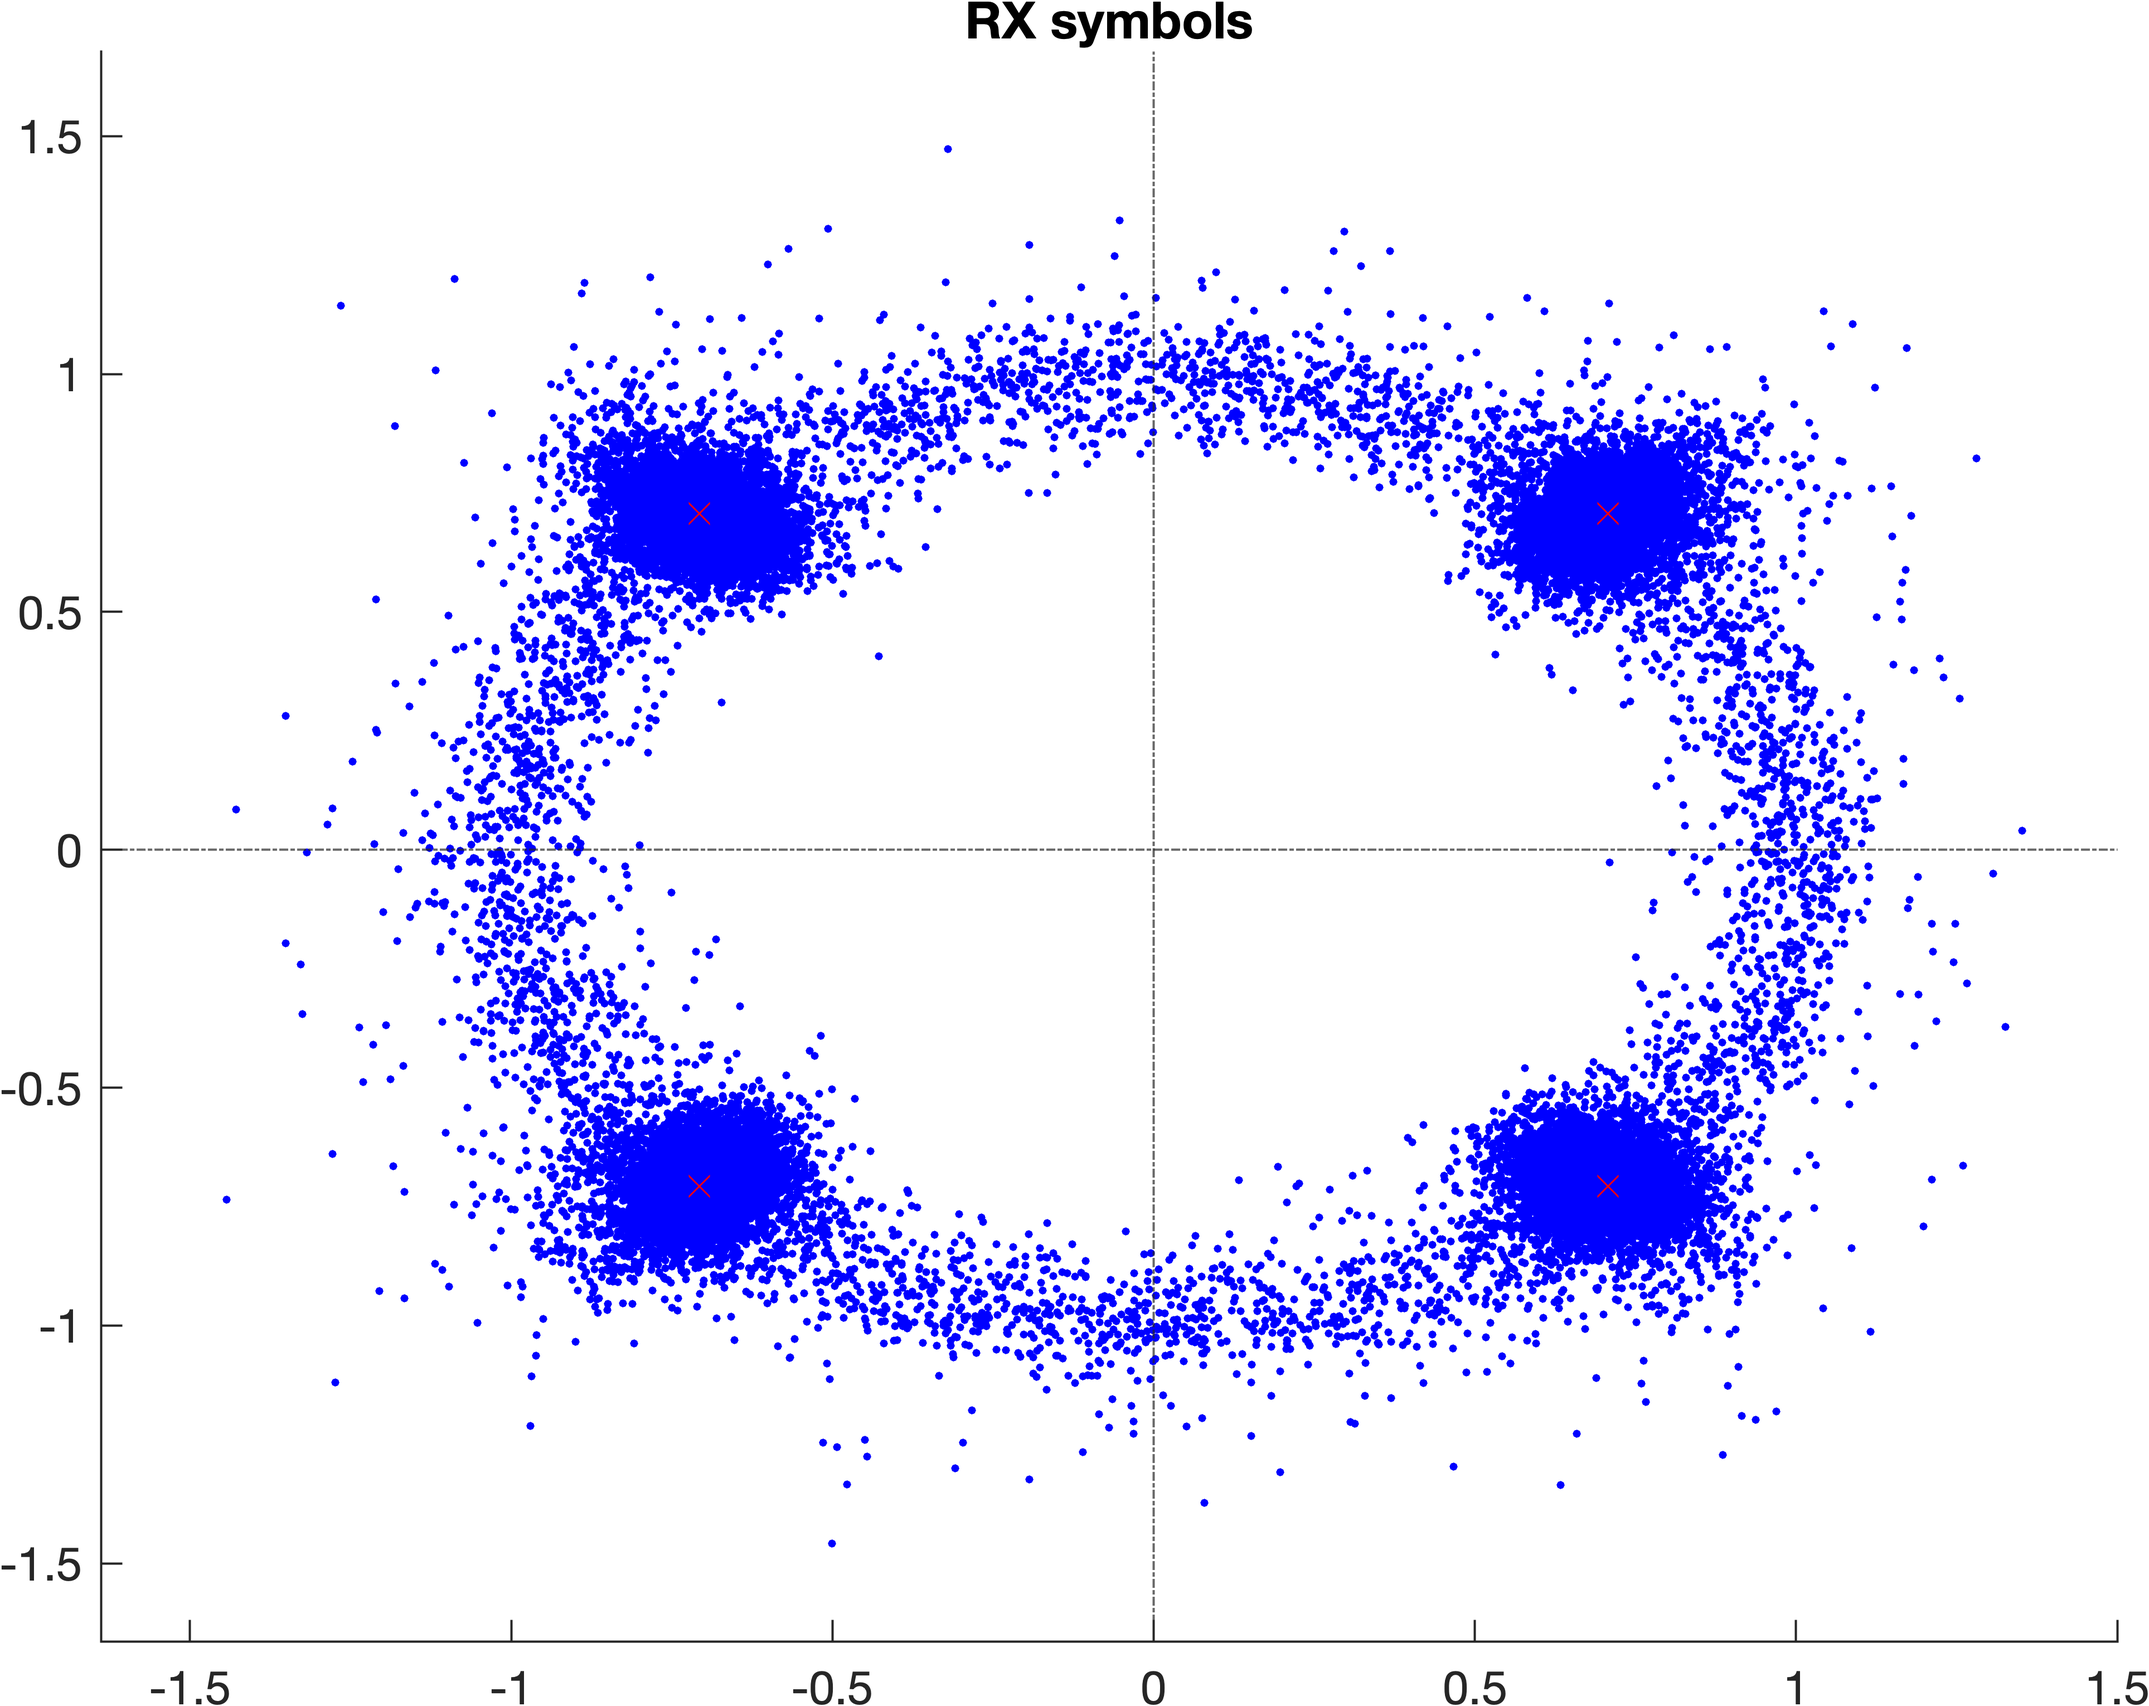
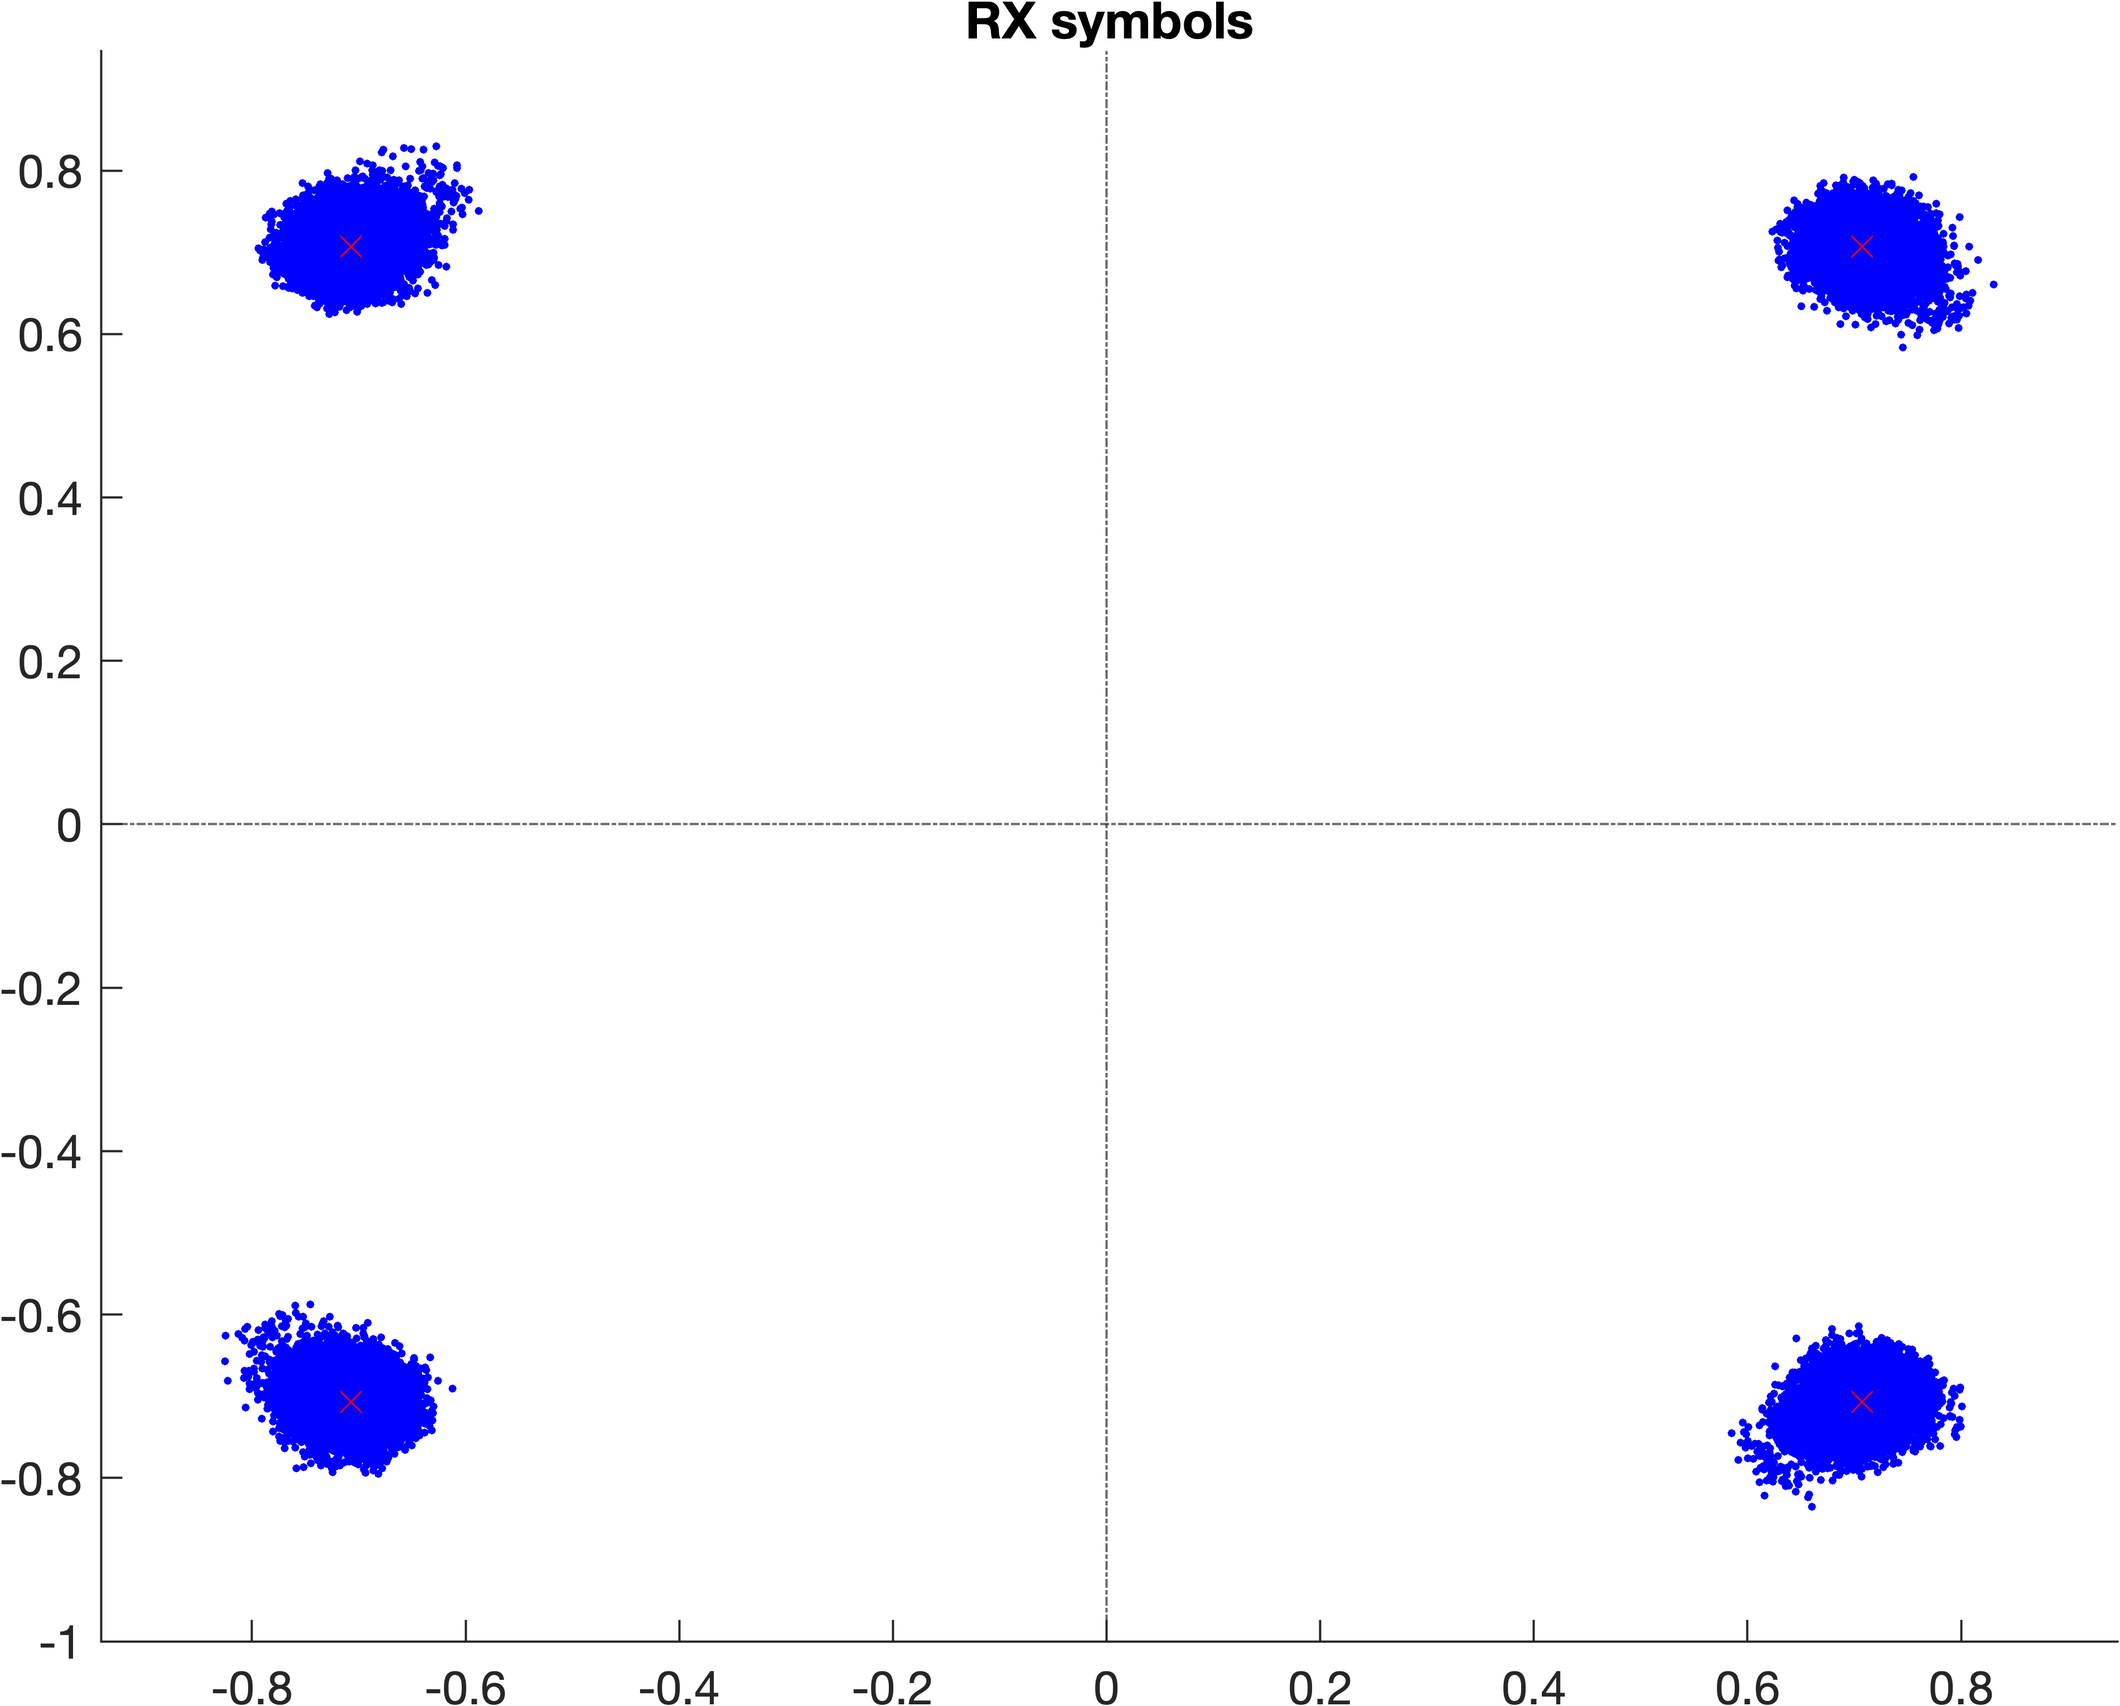
Correcter Viterbi-Viterbi

diff --git a/project_matlab/rx.m b/project_matlab/rx.m
@@ -1,4 +1,4 @@
-function [rxbits conf] = rx(rxsignal,conf,k)
+function [rxbits conf] = rx(rxsignal,conf)
 % Digital Receiver
 %
 %   [txsignal conf] = tx(txbits,conf,k) implements a complete causal
@@ -74,7 +74,7 @@ plot(conf.qpsk, 'rx');
 axis padded
 title("RX symbols");
 hold off;
-exportgraphics(gcf,'plots/3_3_RX_constellation (with phase tracking)_128symbols_2.png','Resolution',600)
+exportgraphics(gcf,'plots/3_3_RX_constellation (with phase tracking)_128_symbols.png','Resolution',600)
 
 
 
@@ -128,11 +128,12 @@ function dataCorrected = phaseCorrection(fftSignal, conf)
 
 
             [~, ind] = min(abs(delta_theta_viterbi.' - previous_delta_theta.'));
-            actual_delta_theta_viterbi_ = delta_theta_viterbi(:,ind(:));
-            actual_delta_theta_viterbi = actual_delta_theta_viterbi_(:, 1);
 
-           
-            new_delta_theta = 0.99 * previous_delta_theta + 0.01*actual_delta_theta_viterbi;
+            actual_delta_theta_viterbi_matrix = delta_theta_viterbi(:, ind.');
+            actual_delta_theta_viterbi = extract_diagonal(actual_delta_theta_viterbi_matrix);
+
+
+            new_delta_theta = 0.5 * previous_delta_theta + 0.5*actual_delta_theta_viterbi;
             new_delta_theta = mod(new_delta_theta, 2*pi);
 
         else

diff --git a/project_matlab/main.m b/project_matlab/main.m
@@ -36,8 +36,8 @@ conf.f_carrier            = 4000;
 conf.N                    = 256; % number of subcarriers
 conf.cyclic_prefix_len    = 32;%conf.N / 2;
 conf.preamble_len         = 200;
-conf.SNR_db               = 200;
-conf.sigmaDeltaTheta      = 0.0;
+conf.SNR_db               = 20;
+conf.sigmaDeltaTheta      = 0.05;
     
 
 conf = init_conf(conf, txbits);
@@ -145,7 +145,7 @@ disp(newline + "---> BER = " + ber);
 figure();
 tiledlayout(2,1);
 nexttile;
-moving_average_error = movmean(rxbits ~= txbits, 2^5);
+moving_average_error = movmean(rxbits ~= txbits, 2^1);
 plot(moving_average_error, '.');
 title("Moving Average Bit Error");
 xlabel("Time");
@@ -164,7 +164,7 @@ yline(pi/4, '-.');
 yline(0, '-.');
 
 
-exportgraphics(gcf,'plots/3_3_Bit and Phase error over time (with phase tracking)_128symbols_2.png','Resolution',600)
+exportgraphics(gcf,'plots/3_3_Bit and Phase error over time (without phase tracking)_128_symbols.png','Resolution',600)
 
 %% Output the image
 if conf.data_type == "image"

diff --git a/project_matlab/functions/extract_diagonal.m b/project_matlab/functions/extract_diagonal.m
@@ -1,0 +1,7 @@
+function [v] = extract_diagonal(M)
+    v = zeros(size(M, 1), 1);
+    
+    for i = 1 : length(v)
+        v(i) = M(i, i);
+    end
+end
